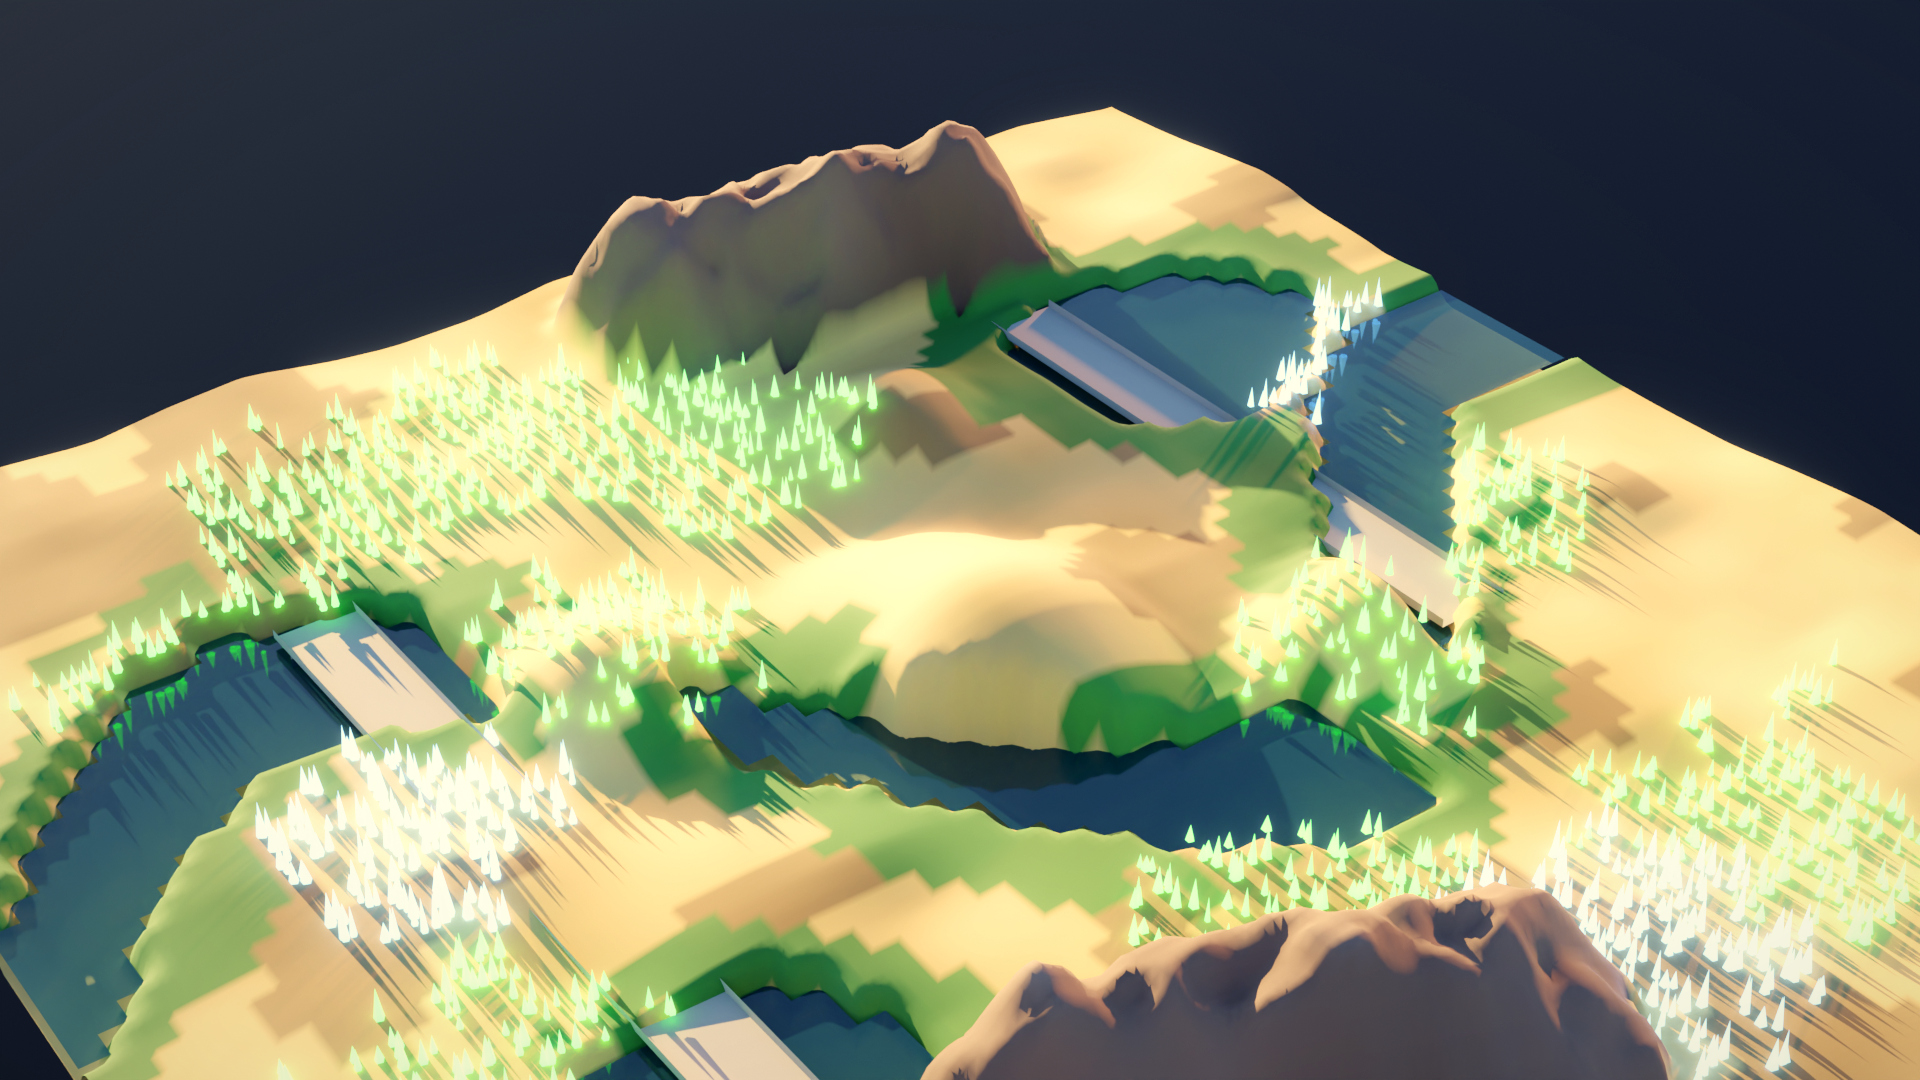
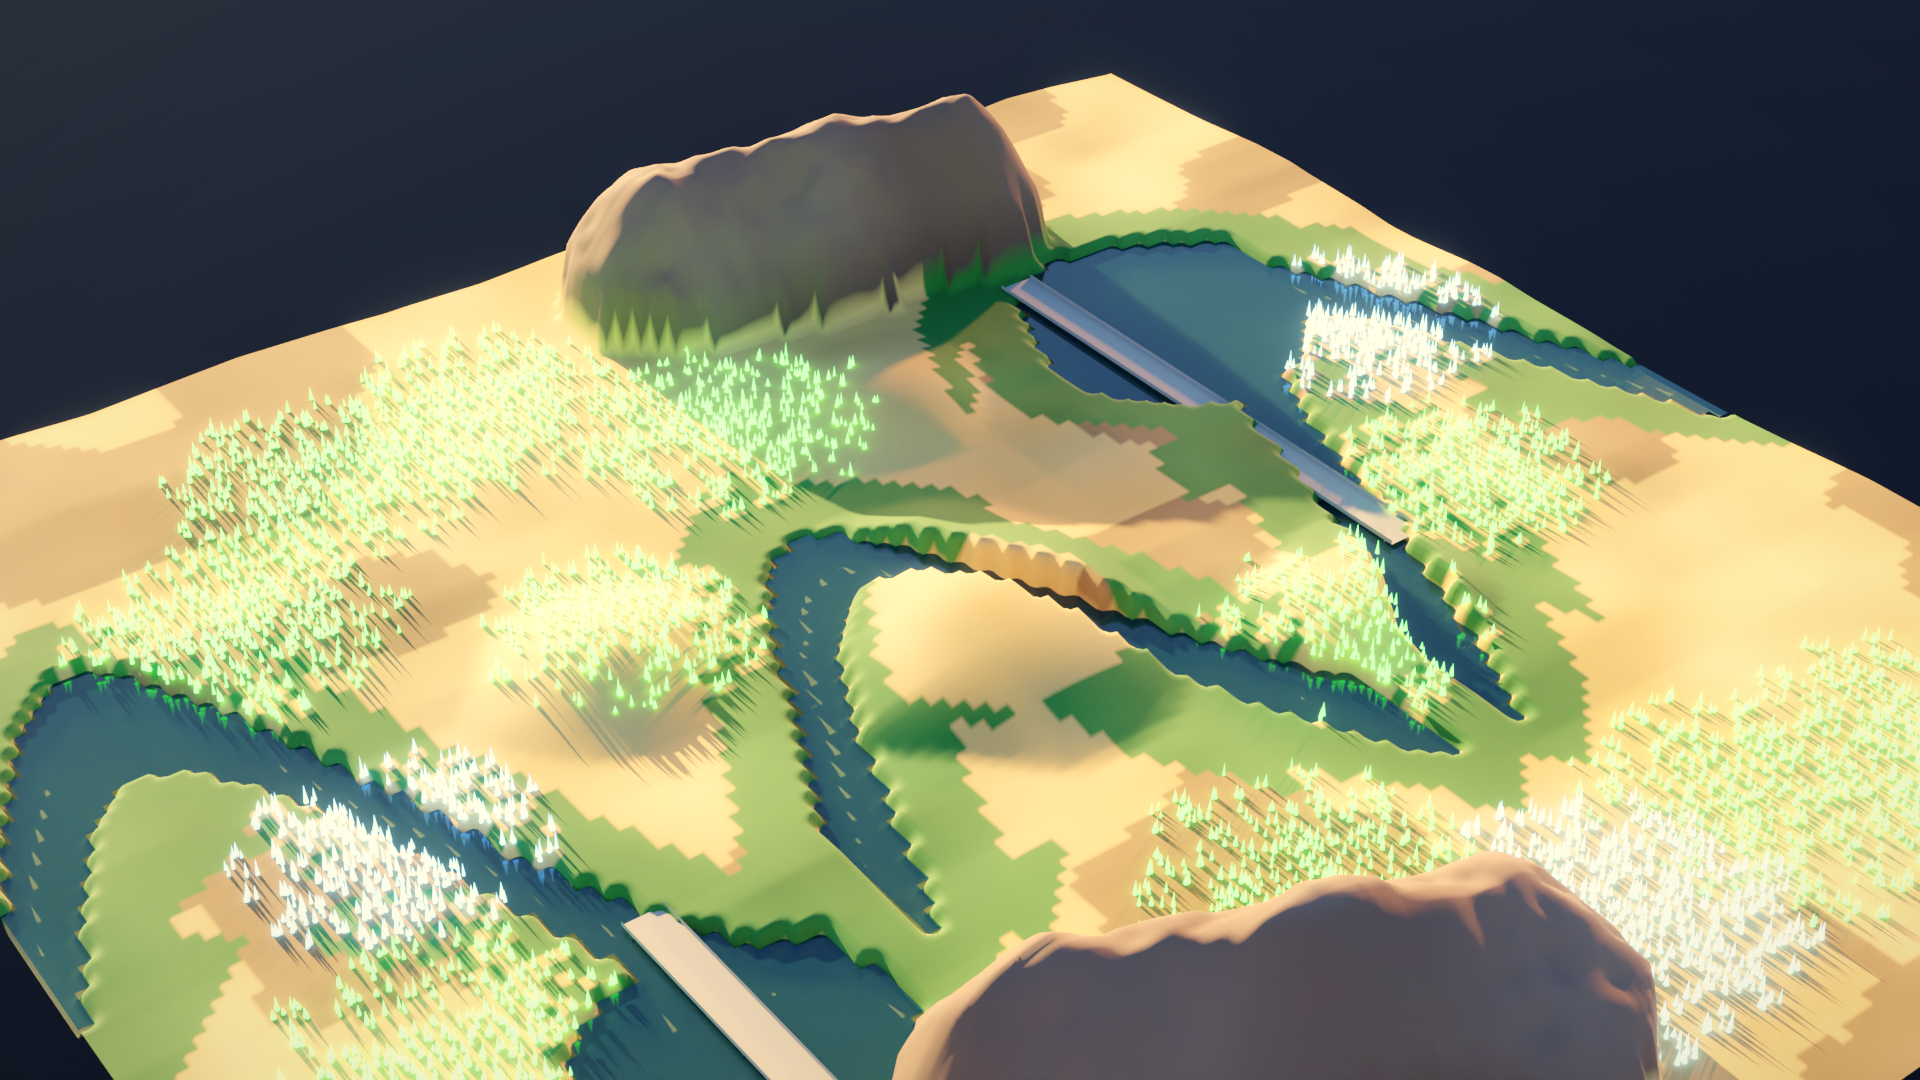
Render the 4x map: 4K hero, dunes vista, tactical top-down
Scale the demo map to 4x the playable area (MAPSIZE=128) with feature sizes
scaled to keep mountains, tiberium fields and meadows grand, and render it
from three framings plus 4K:

- tiberium-dusk-map-4k.png       — 3840x2160 hero
- tiberium-dusk-map-1080p.png    — 1920x1080 hero (replaces the 64-size one)
- tiberium-dusk-map-dunes.png    — low dusk vista
- tiberium-dusk-map-tactical.png — top-down orthographic minimap

The Blender script gains MAPSIZE / CAM / RES / SAMPLES env parameters and
forces an absolute output path (Blender resolves a relative render path
against the blend-file dir, not the cwd).

Claude-Session: https://claude.ai/code/session_01UeUeSgfm7hMJ9gnZ39hxuR

diff --git a/tools/blender_demo_map.py b/tools/blender_demo_map.py
@@ -15,11 +15,11 @@ RES     = os.environ.get("RES", "1080")          # 1080 | 4k
 CAM     = os.environ.get("CAM", "hero")          # hero | dunes | topdown
 RENDER      = os.environ.get("RENDER", "1") == "1"
 EXPORT_GLTF = os.environ.get("EXPORT_GLTF", "0") == "1"
-GLB_OUT     = os.environ.get("GLB_OUT", "terrain.glb")
+GLB_OUT     = os.path.abspath(os.environ.get("GLB_OUT", "terrain.glb"))
 if PREVIEW:      RES_X, RES_Y, SAMPLES = 960, 540, 24
 elif RES == "4k": RES_X, RES_Y, SAMPLES = 3840, 2160, int(os.environ.get("SAMPLES", "200"))
 else:            RES_X, RES_Y, SAMPLES = 1920, 1080, int(os.environ.get("SAMPLES", "200"))
-OUT = os.environ.get("OUT", "tiberium_dusk_map.png")
+OUT = os.path.abspath(os.environ.get("OUT", "tiberium_dusk_map.png"))  # Blender needs abs
 
 # ----------------------------------------------------------------------------
 # 1. reconstruct the game world  (ports makeWorld() from the JS source)

diff --git a/docs/renders/README.md b/docs/renders/README.md
@@ -4,26 +4,44 @@ High-quality offline renders of *Tiberium Dusk* content, produced with Blender
 (Cycles). These are promotional / reference stills — the live game runs in the
 browser on Three.js; these images are **not** loaded at runtime.
 
-## `tiberium-dusk-map-1080p.png`
+The Blender scene is a faithful reconstruction of the game's own procedural
+terrain generator (`makeWorld()` in the preview build): identical seed,
+value-noise field, the snaking river with its fords, the lakes, the rock
+mountain ranges, the climbable hills and all the tiberium fields. On top of
+that it adds lush green meadow banks along the water and bridges spanning the
+river, lit as a warm desert dusk with a bloom pass over the glowing tiberium.
 
-A Full HD (1920×1080) hero render of the demo map. The Blender scene is a
-faithful reconstruction of the game's own procedural terrain generator
-(`makeWorld()` in the preview build): identical seed, value-noise field, the
-snaking river with its two fords, the two lakes, the two rock mountain ranges,
-the four climbable hills and all the tiberium fields. On top of that it adds
-lush green meadow banks along the water and two bridges spanning the river,
-lit as a warm desert dusk with a bloom pass over the glowing tiberium.
+These stills are rendered at **4× map size** (`MAPSIZE=128`, four times the
+playable area), with feature sizes scaled to keep the mountains, fields and
+meadows grand rather than sparse.
 
-### Regenerate
+## Images
+
+| file | what |
+|------|------|
+| `tiberium-dusk-map-4k.png`       | 3840×2160 hero shot |
+| `tiberium-dusk-map-1080p.png`    | 1920×1080 hero shot |
+| `tiberium-dusk-map-dunes.png`    | low "in the dunes" dusk vista |
+| `tiberium-dusk-map-tactical.png` | top-down orthographic tactical map / minimap |
+
+## Regenerate
 
 ```bash
-# 1. render (Blender 5.x as the `bpy` Python module; CPU Cycles is fine)
-OUT=map_render.png python3 tools/blender_demo_map.py
-# 2. post-process: bloom + dusk grade + vignette (needs numpy + Pillow)
-python3 tools/postprocess_render.py map_render.png tiberium-dusk-map-1080p.png
+# hero (1080p). CAM = hero | dunes | topdown ; RES = 1080 | 4k
+MAPSIZE=128 CAM=hero OUT=map.png python3 tools/blender_demo_map.py
+python3 tools/postprocess_render.py map.png map_final.png   # bloom + dusk grade + vignette
 ```
 
-Set `PREVIEW=1` for a fast low-res/low-sample preview while iterating.
+- `MAPSIZE` — 64 (game size) or 128 (the 4× map)
+- `RES=4k` for 3840×2160; `CAM=topdown` renders a square frame
+- `PREVIEW=1` for a fast low-res/low-sample preview while iterating
+- `SAMPLES=N` overrides Cycles samples
 
-No third-party or copyrighted assets are used — the geometry, materials and
-lighting are all generated procedurally by the script.
+`tools/postprocess_render.py` needs numpy + Pillow. No third-party or
+copyrighted assets are used — the geometry, materials and lighting are all
+generated procedurally by the script.
+
+## glTF export
+
+`gltf-viewer/` contains the same terrain exported as a Draco-compressed `.glb`
+plus a self-contained Three.js viewer — see its README.
